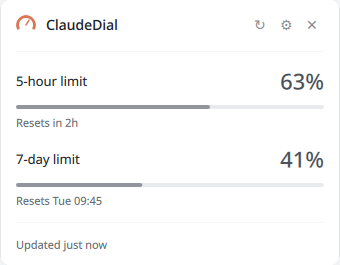
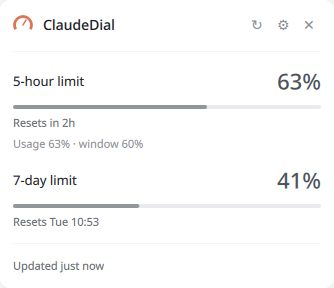
Refresh the popup screenshots for the window-position line
Both themes showed the five-hour row without it. The line reads quieter than
the reset time above it, which is the intent: it is the more speculative of the
two facts.

diff --git a/README.md b/README.md
@@ -217,8 +217,7 @@ there is no pace multiplier, no projection and no verdict. The 7-day window does
 not get this: consumption across days is naturally uneven, so "40% through the
 week" would say nothing useful.
 
-That line is experimental. If nobody's eye ever catches it, it will go. (The
-popup screenshot above predates it.)
+That line is experimental. If nobody's eye ever catches it, it will go.
 
 Colour has three separate jobs:
 
